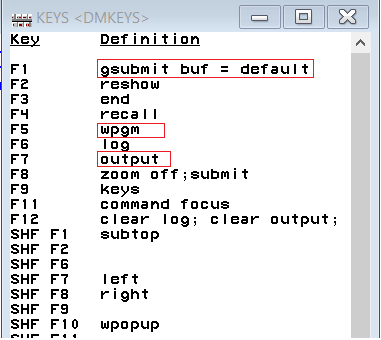
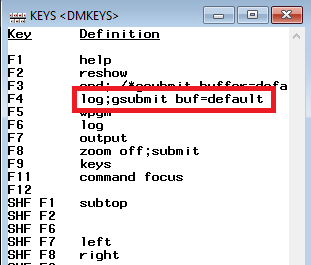
Modify command_sender.py to fix a problem activating firefox program; update readme
Former-commit-id: 0613aa30825140dc7ddd192e8432eece2c9bf4a9

diff --git a/command_sender/command_sender.py b/command_sender/command_sender.py
@@ -241,6 +241,7 @@ class SasSession:
 
   def studio_create_or_submit(self, mode, command=None):
     session_json = SessionInfo(json_path, default=False)
+    browser = session_json.get("browser")
     current_session = self.current_session
     current_session_type = self.sessions[current_session]['type']
 
@@ -286,7 +287,11 @@ class SasSession:
                 break
             if mode == "submit":
                 pid = session_json.settings["sessions"][self.current_session]['pid']
-                activate_window(pid = pid)
+                # activate_window function cannot activate firefox
+                if browser == "firefox":
+                  pass
+                else:
+                  activate_window(pid = pid)
                 submit_to_studio(command, self.sessions[current_session]['driver'], self.platform, current_session_type)
                 break
             else:

diff --git a/Readme.md b/Readme.md
@@ -1,6 +1,6 @@
 # IMPORTANT CHANGES!!!
 Note to EXISTING users:
-In the current version, I have changed the keys in SAS for submission from "F1" to "F4", this change is to make the submission easier. Please change in your SAS by editing "F4" to be "log; gsubmit buf = default". You can keep "F1" configuration as it were or whatever you want it to be.
+In the current version, I have changed the keys in SAS for submission from "F1" to "F4". After this change, the "Help" window will not pop up when SAS Enhanced Editor is open. Please change in your SAS by editing "F4" to be "log; gsubmit buf = default". You can keep "F1" configuration as it were or whatever you want it to be.
 
 For new users, please follow the steps in the installation section.
 
@@ -15,7 +15,7 @@ This program currently supports submitting SAS command in:
 Only Windows operating system is supported at this moment. Supports for macos will be added in the future.
 
 # Installation
-Download this package and put into Sublime "packages\\" folder or install it using Sublime package control. The latest version of Google Chrome browser needs to be installed. The Sublime packge [`SAS Programming`](https://github.com/rpardee/sas) need to be installed prior to this package.
+Download this package and put into Sublime "packages\\" folder or install it using Sublime package control. The latest version of Google Chrome browser needs to be installed. The Sublime packge [`SAS Programming`](https://github.com/rpardee/sas) or [`SAS Syntax and Theme`](https://packagecontrol.io/packages/SAS%20Syntax%20and%20Theme) need to be installed prior to this package.
 
 ## Basic setup
 * Make a copy of the SasSubmit.sublime-settings and put it into Sublime "Packages/User/" folder. Or open the menu "Preferences/Pacakge Settings/SasSubmit/Settings", then copy from the default settings and paste into the user settings. Make changes only to the user settings.
@@ -24,7 +24,7 @@ Download this package and put into Sublime "packages\\" folder or install it usi
 * Configure SAS, this only need to be done once.
     - Change the shortcuts in SAS to be:
         + F4: log; gsubmit buf = default
-    - You can do it manually: 
+    - Please follow these steps: 
         + Open SAS, in the command box in the top left of SAS program, type in `keys` and press `Enter`
         <p align="center">
           <img src="figures/configure_sas_01.png">
@@ -33,7 +33,6 @@ Download this package and put into Sublime "packages\\" folder or install it usi
         <p align="center">
           <img src="figures/configure_sas_02.png">
         </p>
-    - Or you can copy the `profile.sas7bcat` file in the `SasSubmit` folder and put it into your `SASUSER` folder (typically it's located at `%USERPROFILE%\Documents\My SAS Files\9.4`). Before replacing it, it's recommended to make a backup of your previous `profile.sas7bcat` file.
 
 ## SAS studio university edition
 * Start SAS studio university edition.
@@ -49,14 +48,17 @@ Download this package and put into Sublime "packages\\" folder or install it usi
 
 # Usage
 * Open command Platte and type in `create session`. 
-* On the lower screen find the "Session to Create:" box, and type in the session you want to create. "studio", "studio_ue", "classic" stands for SAS studio, SAS studio university edition, classic SAS. If you type anything else it would fail.
-* Wait for the session to be created. 
-* When the session is ready submit code using `F3`.
-* Keep your Sublime application running, otherwise all the sessions would be closed. Also keep the Chrome window open by the session open, otherwise that session would be killed.
-* You can create multiple sessions, and you can also switch to different sessions by opening command Platte and type in "choose session".
+* On the lower screen find the "Session to Create:" box, and type in the session you want to create. If you type anything else it would fail.
+    -  "studio" stands for SAS studio
+    -  "studio_ue" stands for SAS studio university edition
+    -  "classic" stands for the traditionally used SAS program
 * You can create multiple sessions for each type of session. Specifically for "classic" session, 
     - if you type "classic" in the "create session" prompt, it will create a "classic:default" session. For "classic:default" session, SasSubmit will submit SAS command to the most recently activated SAS window.
     - if you type "classic:XXXXX", where "XXXXX" is not "default", for example, "classic:project_1", it will create a "classic:XXXXX" session. These types of session is not the same as "classic:default" as the location of your SAS program will be remembered in these sessions.
+* Wait for the session to be created. 
+* When the session is ready submit code using `F3`.
+* Keep your Sublime application running, otherwise the connection between sublime and all existing sessions will be broken. Also keep the Chrome window open by the session open, otherwise that session would be killed.
+* You can create multiple sessions, and you can also switch to different sessions by opening command Platte and type in "choose session".
 
 # Debug
 This plugin is still in the alpha stage and I haven't tested thoroughly. If you have problem such as session cannot be created or submitting does not work, please first read Sublime "Packages/SasSubmit/SasSubmit.log"or submit an issue. 
